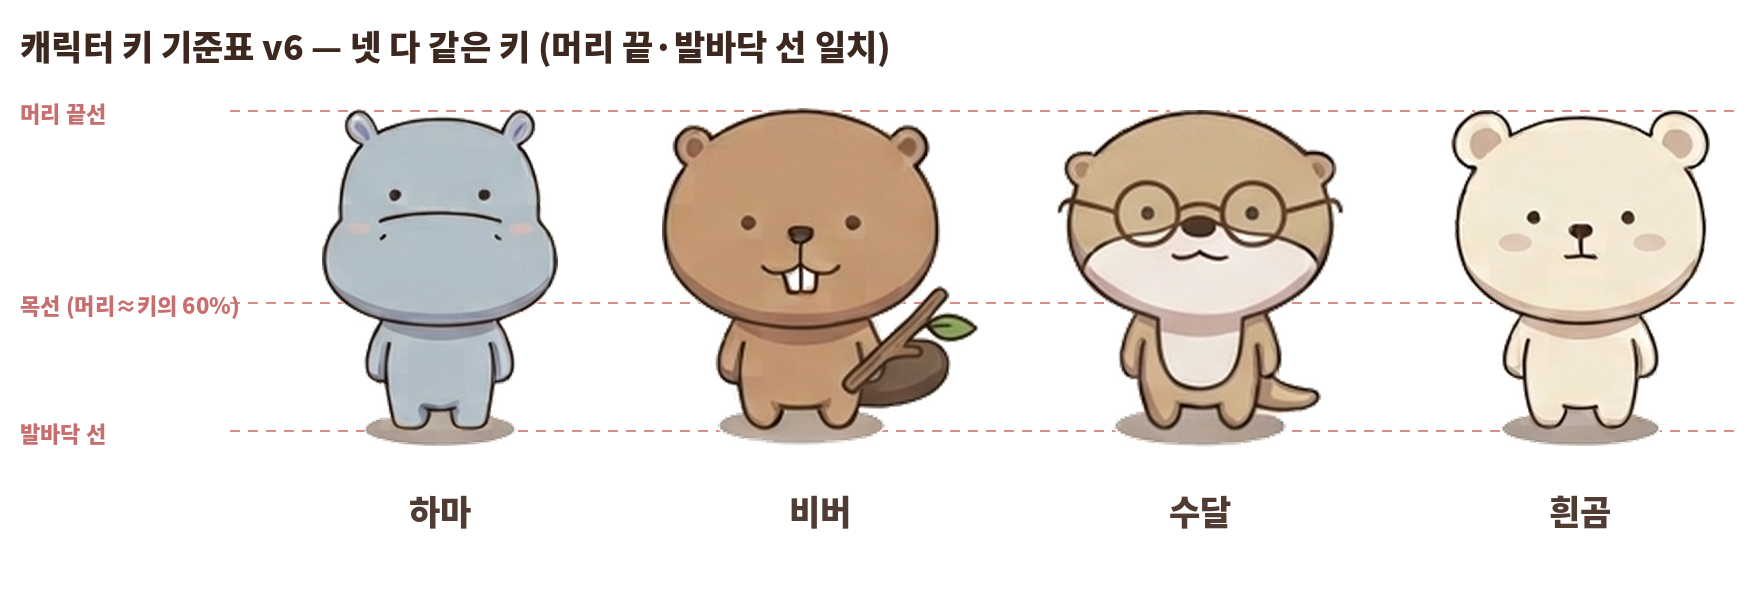
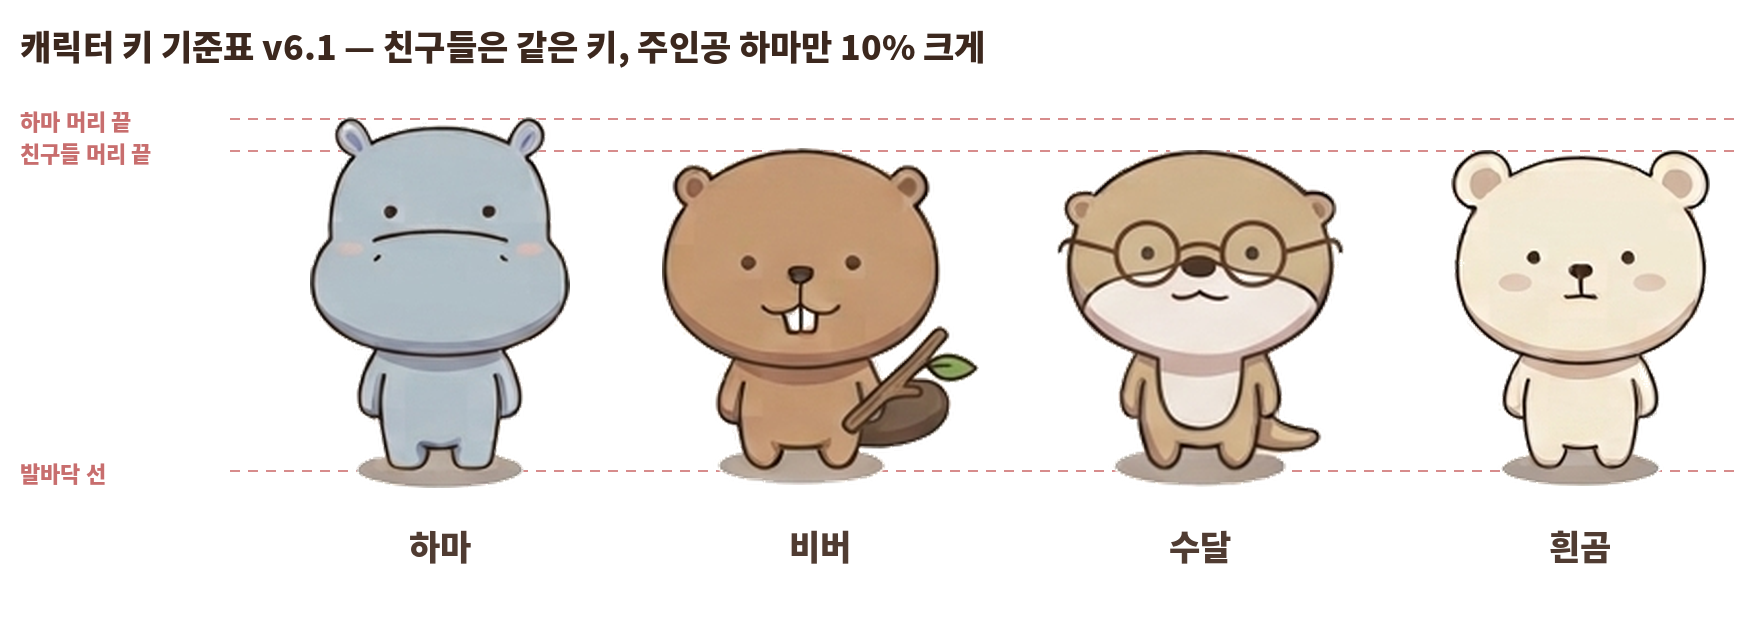
키 기준표 v6.1: 하마만 10% 크게 (사용자 확정)
Claude-Session: https://claude.ai/code/session_01E581QGyRhYbUEmtL38k9ko

diff --git a/docs/generation-runbook.md b/docs/generation-runbook.md
@@ -56,7 +56,7 @@
 4. 프롬프트는 **줄바꿈 없이 한 줄로** 입력 (줄바꿈하면 그 자리에서 전송돼 잘린다). 포함할 것:
    - "이미지 만들기:" + 첫 첨부(`06`)의 완성도와 배경 묘사 수준(배경만), 둘째 첨부(`07` 기준 시트)의 캐릭터 생김새·비율·명암 그대로, 셋째 첨부의 하마 비율. 얇은 짙은 갈색 단선, 파스텔 + 은은한 명암(광택·3D·진한 음영 금지)
    - **캐릭터 특징 문장 포함**: "볼터치는 하마와 흰곰만 아주 연하게, 비버는 잎사귀 달린 짧은 나뭇가지를 들고(숫자 확인 컷에서는 계산기), 수달은 얇은 갈색 테 둥근 안경을 쓰고. 수달에게 조개 소품 금지. 하마가 입을 다문 컷은 둘째·셋째 첨부처럼 입이 짧은 선 하나뿐이고 입 밖으로 나온 이빨 없음, 놀라거나 웃으며 입을 크게 벌린 컷에서만 입안에 작은 이빨이 살짝 보여도 됨"
-   - **캐릭터 키 기준표(2026-11-23)**: 툰을 만들 때 `docs/characters/09-cast-size-lineup-v6.png` 를 반드시 함께 첨부하고, 프롬프트에 "네 캐릭터의 키와 머리 크기는 첨부한 키 기준표 그대로 — 넷 다 같은 키(정수리·발바닥 높이가 같음), 컷마다 하마 크기를 바꾸지 말 것(원근으로 멀리 있는 컷 제외)" 문장을 넣는다. 검수 때 같은 컷에 선 캐릭터끼리 키가 눈에 띄게 다르면 다시 생성.
+   - **캐릭터 키 기준표(2026-11-23)**: 툰을 만들 때 `docs/characters/09-cast-size-lineup-v6.png` 를 반드시 함께 첨부하고, 프롬프트에 "네 캐릭터의 키와 머리 크기는 첨부한 키 기준표 그대로 — 비버·수달·흰곰은 같은 키, 하마만 그보다 10% 크게(발바닥 높이는 같음), 컷마다 하마 크기를 바꾸지 말 것(원근으로 멀리 있는 컷 제외)" 문장을 넣는다. 검수 때 같은 컷에 선 캐릭터끼리 키가 눈에 띄게 다르면 다시 생성.
    - **최근 2편 툰에서 빠진 친구(수달·비버·흰곰)가 있으면 이번 편에 대사가 있는 컷으로 넣는다** — 매 편 넷 다 나올 필요는 없음 (2026-11-16). 검수 때 넣기로 한 친구가 배경에만 작게 나오면 다시 생성.
    - **③컷은 persona.md "③컷 변주"에서 최근 3편과 다른 것을 골라 장면을 구체적으로 적고, 대사에 "잠깐"·"확인해 봤어?"를 쓰지 않는다. 하마 놀람·땀방울은 넣어도 되지만 한 편에 최대 1컷, 3편 연속 금지** (2026-11-12). 검수 때 직전 3편 1200-3.png 와 나란히 놓고 구도·표정이 같으면 다시 생성.
    - **컷마다 하마 입 모양을 장면 묘사에 직접 적는다** (2026-10-27 보강 — 다문 컷에도 아래 송곳니가 튀어나오는 문제): 예) "1컷 하마는 입을 다문 미소, 입은 짧은 곡선 하나" / "3컷 하마는 입을 크게 벌린 놀란 얼굴". 크게 벌리는 컷은 한 편에 1~2컷만.

diff --git a/docs/persona.md b/docs/persona.md
@@ -8,7 +8,7 @@
 - **수달 = 차분한 설명 담당**: 갈색 몸에 흰 배. 개념을 쉬운 비유로 차분하게 풀어 준다. "~란 건 말이야" 처럼 조곤조곤. 개념 정의·원리 설명 대사는 수달 몫.
 - **비버 = 숫자 꼼꼼 확인 담당**: 갈색, 앞니 두 개, 평소엔 잎사귀 달린 나뭇가지를 들고 다님(v5), 숫자 확인 컷에서만 계산기. 비용·수익률·비율·날짜 같은 숫자와 조건을 꼼꼼히 따져 확인한다. 확인·체크 대사는 비버 몫이지만 **"잠깐, ~확인해 봤어?" 말투는 쓰지 않는다**(2026-11-12 — 매편 똑같아 보임). 질문 대신 직접 보여주기·혼잣말·퀴즈·손짓 등으로 매번 다르게. (툰 이미지엔 숫자 금지 규칙은 그대로 — 대사로 '확인하자'만.)
 - **흰곰 = 옆에서 같이 정리 담당**: 아이보리색. 하마 옆에서 맞장구치고, 마지막에 핵심을 한 줄로 같이 정리해 준다. 정리·다짐 컷(④)은 하마+흰곰이 기본.
-- **크기 기준 (2026-11-23)**: 하마·비버·수달·흰곰은 모두 같은 키의 2등신 가분수. 기준 그림 `docs/characters/09-cast-size-lineup-v6.png`(머리 끝선·발바닥 선 일치). 컷마다 하마가 커지거나 작아지지 않게.
+- **크기 기준 (2026-11-23)**: 비버·수달·흰곰은 같은 키, 주인공 하마만 10% 크게(2026-11-23 사용자 확정). 모두 2등신 가분수. 기준 그림 `docs/characters/09-cast-size-lineup-v6.png`(머리 끝선·발바닥 선 일치). 컷마다 하마가 커지거나 작아지지 않게.
 - 툰 컷 배치 기본형: ① 하마 궁금증/착각 → ② 수달 설명 → ③ 확인·전환 컷 → ④ 펀치라인. **③컷은 아래 "③컷 변주" 중 최근 3편과 다른 것을 고른다.** **친구들은 매 편 다 나올 필요는 없지만 골고루 나오게 한다 — 수달·비버·흰곰 각각 2편 연속 빠지지 않게(최근 2편 툰을 보고 빠진 친구를 이번 편에 대사와 함께 넣기)** (2026-11-16 사용자: "꼭 모두 나올 필요는 없고 요즘 비버가 안 나와서"). 주제에 따라 친구 1~3마리만 써도 되지만 **역할은 바꾸지 않는다**(수달이 숫자 체크, 비버가 개념 설명 같은 혼용 금지).
 - 글(10시·17시)에서 캐릭터를 언급할 때도 같은 역할로: "수달이 그러는데 ~", "비버가 꼭 확인하래 ✔", "흰곰이랑 정리해 보면 ~".
 - 이름은 따로 정하지 않고 종 이름으로 부른다 (하마·수달·비버·흰곰, 2026-10-16 사용자 확인).
